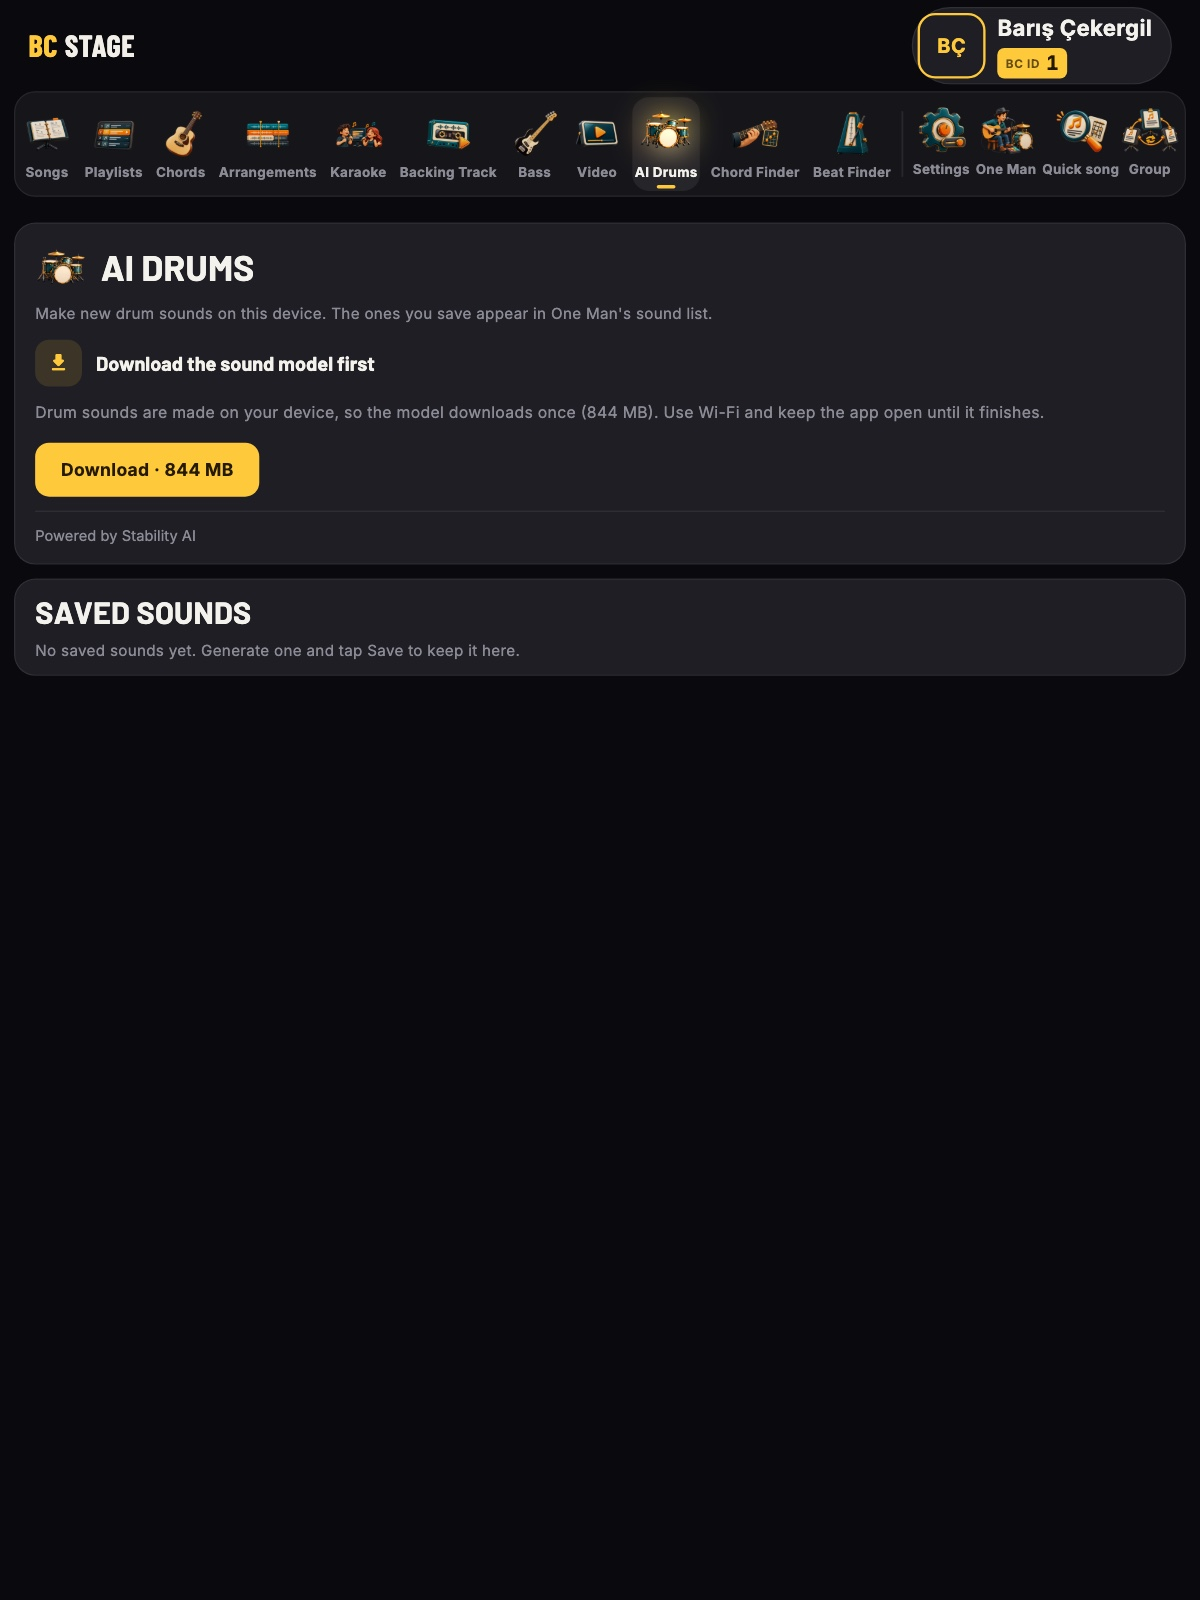
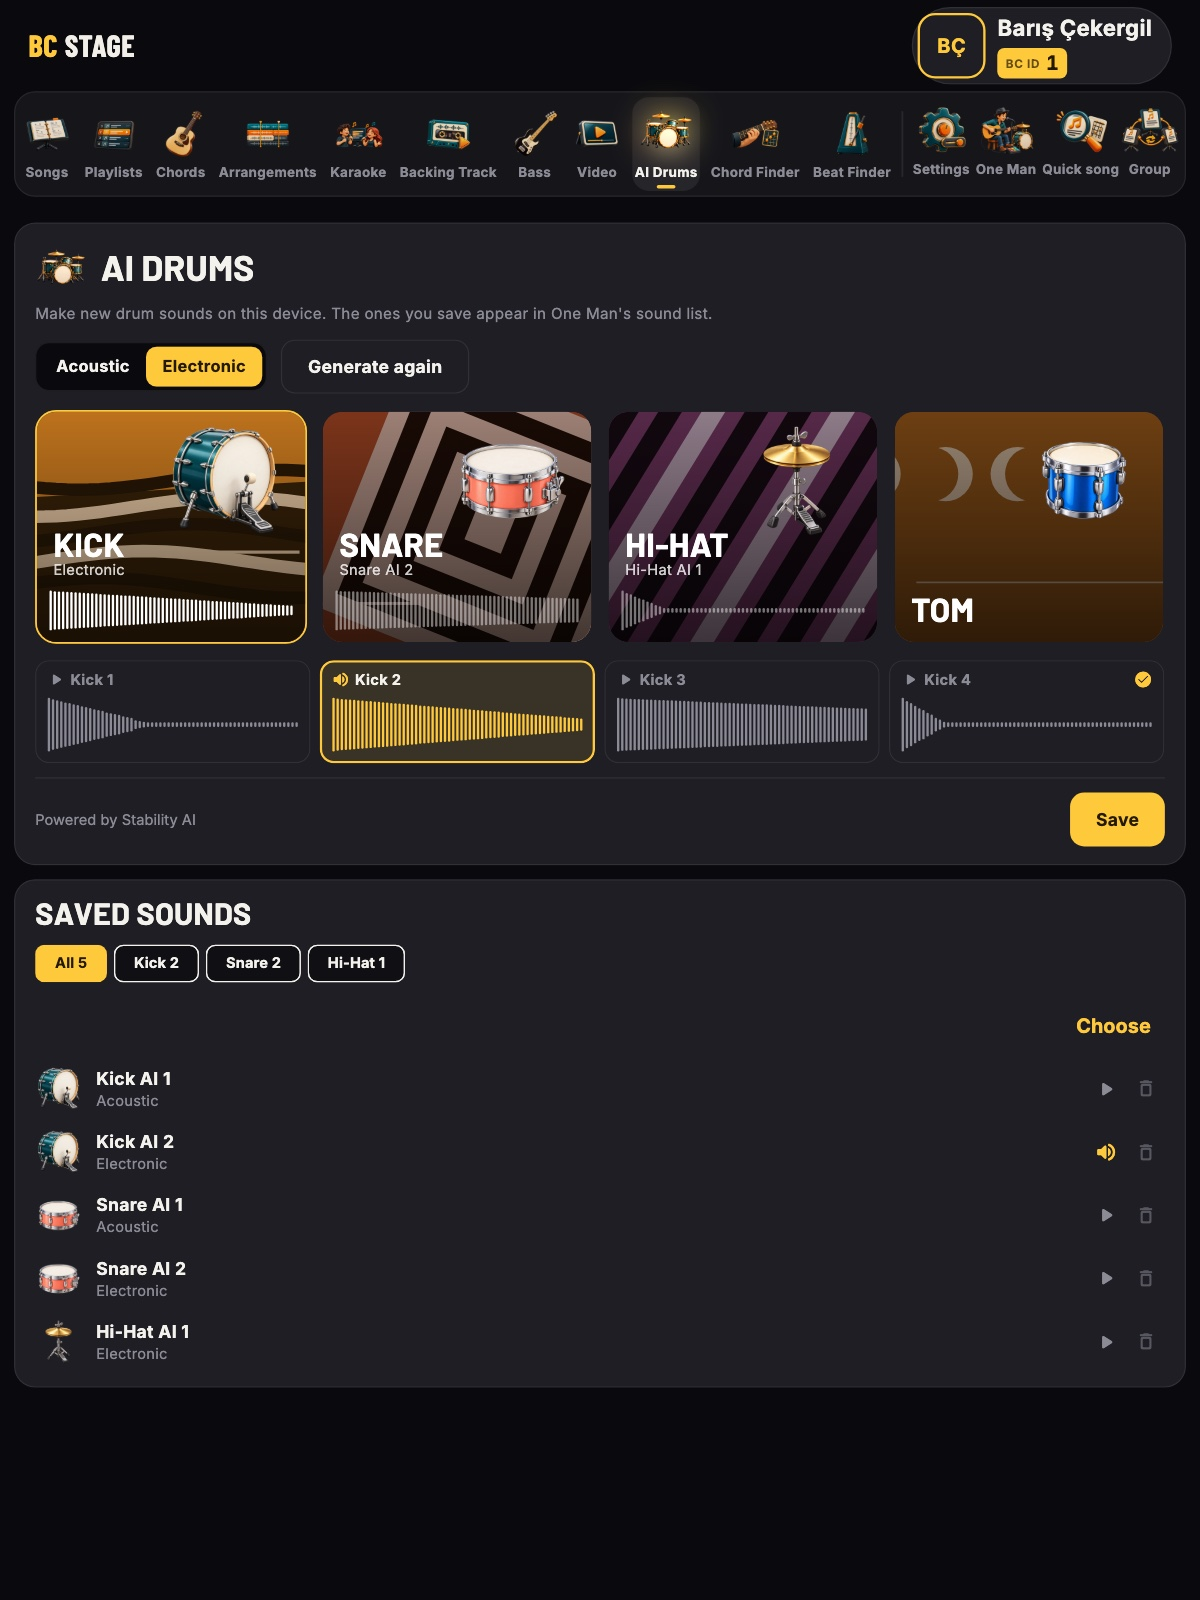
Dolu 3.0 ekranları: açık akor şeması, Akor Bulma ve Metronom Bul sonuçları, AI Davul, video kütüphanesi, Pano (Aralık konserleri); yardım rehberleri bu ekranlara göre yeniden noktalandı

diff --git a/yardim_veri.js b/yardim_veri.js
@@ -43,14 +43,14 @@ window.KILAVUZ=[
 
 {k:'semalar',g:'calisma',i:'duzenlemeler',
  tr:{a:'Akor şemaları',o:'iReal tarzı akor şeması: söz yok, yalnız bölümler, ölçüler ve akorlar.',
-  s:['Düzenlemeler ve Düzenleme Playlistleri: şemaları tek tek ya da liste hâlinde aç.','Ad, şarkıcı ya da söze göre ara.','Her satırda şarkı, sanatçı ve usul.','Düzenleme ekle: bir şarkı için ya da boş şema.'],
-  e:['Şemada bölüm haritası, ton, tempo ve usul üstte; bölüm başlığına dokun: bölüm menüsü.','Boş yuvaya dokun ve akoru yaz; ölçüye çift dokun: ölçü menüsü. Bölüm başına ayrı usul (7/8, 9/8...).','Metronomla yürü: giriş sayar, imleç ölçü ölçü ilerler; röprizleri, 1./2. sonları ve D.S./Coda\'yı çalınış sırasıyla takip eder.'],
+  s:['Bölüm haritası: bölümler ve ×2 gibi tekrarlar; dokununca o bölüme gider.','Ton, tempo ve usul.','Bölüm başlığına dokun: bölüm menüsü.','Röpriz ve 1./2. son işaretleri.','Bölüm başına ayrı usul (burada 7/8).','Segno ve Coda: D.S. al Coda çalınış sırasıyla izlenir.','Şemadaki akorlar.','Metronomla yürü: giriş sayar, imleç ölçü ölçü ilerler.'],
+  e:['Boş yuvaya dokun ve akoru yaz; ölçüye uzun bas: ölçü menüsü.','Yürürken röprizleri, 1./2. sonları ve D.S./Coda\'yı çalınış sırasıyla takip eder, sonda başa döner.','Düzenlemeler listesinden şemaları tek tek ya da Düzenleme Playlistleri olarak açarsın.'],
   t:'Ücretsiz sürümde 10 şema var.'},
  en:{a:'Chord charts',o:'An iReal-style chart: no lyrics, just sections, bars and chords.',
-  s:['Arrangements and Arrangement Playlists: open charts one by one or as a list.','Search by title, singer or lyrics.','Each row shows the song, the artist and the meter.','Add arrangement: for a song or an empty chart.'],
-  e:['Inside a chart the section map, key, tempo and meter sit on top; tap a section header for the section menu.','Tap an empty slot to type a chord; double-tap a bar for the bar menu. A separate meter per section (7/8, 9/8...).','Walk with the metronome: count-in, the cursor moves bar by bar and follows repeats, 1st/2nd endings and D.S./Coda in playing order.'],
+  s:['Section map: sections and repeats like ×2; tap one to jump there.','Key, tempo and meter.','Tap a section header for the section menu.','Repeat signs and 1st/2nd endings.','A separate meter per section (7/8 here).','Segno and Coda: D.S. al Coda is followed in playing order.','Chords used in the chart.','Walk with the metronome: count-in, the cursor moves bar by bar.'],
+  e:['Tap an empty slot to type a chord; long-press a bar for the bar menu.','While walking it follows repeats, 1st/2nd endings and D.S./Coda in playing order, then goes back to the top.','From the Arrangements list you open charts one by one or as Arrangement Playlists.'],
   t:'The free version has 10 charts.'},
- n:[[50,21.5],[10,26.8],[9,33],[30,94.5]]},
+ n:[[30,8.5],[86,9.6],[5,22.8],[25.5,54],[96,67],[24.4,88.8],[17,97],[77,2.9]]},
 {k:'karaoke',g:'calisma',i:'karaoke',
  tr:{a:'Karaoke',o:'Bir ses dosyasını şarkıya bağla; BC Stage vokali ayırır ve sözleri kelime kelime zamana oturtur.',
   s:['Söz kelime kelime dolar; akorlar kelimenin üstünde.','Sıradaki satır soluk görünür.','Çal ve ilerleme çubuğu; satıra dokunup atlarsın.','Akorlar ve Akor yaz.','Tema: kapak renkleri, altın toz, ateş böcekleri, kıvılcım ya da sade.','Yazı boyu.','Ton: yarım ses adımlarla.','Hız: yavaşlat ya da hızlandır.','Vokal: asıl sesi kıs ya da tamamen kapat.'],
@@ -70,30 +70,28 @@ window.KILAVUZ=[
   s:['Lyrics language: Automatic, Turkish or English.','Give it the song with "Choose an audio file".','Four steps: split the vocal, write the lyrics, time the words, find the chords.','Capo plans: no capo, or fewer barre chords.','Chord chart: every chord in the song.','Result: lyrics with chords and section headers.','Save to your songs, and to Karaoke if you like.'],
   e:['You can switch tabs while it works; a progress ring shows on the tab.'],
   t:'The lyric recognition and alignment models download on first use; after that no internet is needed.'},
- n:[[19,35],[17,40],[17,60],[45,25],[45,32],[55,50],[42,94]]},
+ n:[[15,46.5],[24,30.4],[12,60],[41,27.5],[46,39],[49,55],[42,94.3]]},
 
 {k:'video',g:'calisma',i:'video',
  tr:{a:'Video çalışma',o:'Ders videosunda zor yeri döngüye al, yavaşlat, ellerin öğrenene kadar tekrar çal.',
-  s:['Video.','Dalga şeridinde A ve B işaretleri: döngünün başı ve sonu.','A ve B zamanları; "Temizle" ile sıfırla.','Döngü kilidi.','Hız: 0,25× ile 1× arası; ses kalınlaşmaz.','Hız merdiveni: her turda biraz hızlanır.','Çalışmalar: döngüyü adıyla kaydet.','Çal.'],
-  e:['Videoyu galerinden seç.','Dalga şeridinde iki parmakla ×120\'ye kadar yakınlaştır.'],
+  s:['Video seç: bağlantı ya da galeriden dosya.','Videolarında ara.','Listeler: Gitar dersleri, Sahne kayıtları; + ile yeni liste.','Kayıtlı çalışma: hızı ve A–B döngüsü satırda görünür, dokununca kaldığın yerden açılır.','Satır menüsü (⋮): adlandır, listeye ekle, sil.','Video burada oynar; altında dalga şeridi.'],
+  e:['Dalga şeridinde A ve B işaretleri döngünün başı ve sonu; "Temizle" ile sıfırla, döngü kilidiyle sabitle.','Hız 0,25× ile 1× arası; ses kalınlaşmaz. Hız merdiveni her turda biraz hızlandırır.','Çalışmalar: döngüyü adıyla kaydet. Dalga şeridinde iki parmakla ×120\'ye kadar yakınlaştır.'],
   t:'iPad, Mac ve yatay telefonda çalışır. Ses perdesi korunur; ayrıca ton değiştirme yoktur.'},
  en:{a:'Video practice',o:'Loop the hard part of a lesson video, slow it down and play it until your hands know it.',
-  s:['The video.','A and B markers on the waveform: start and end of the loop.','A and B times; reset with "Clear".','Loop lock.','Speed: 0.25× to 1×, without lowering the pitch.','Speed ladder: a little faster every pass.','Practice spots: save a loop with a name.','Play.'],
-  e:['Pick a video from your gallery.','Pinch the waveform to zoom up to ×120.'],
+  s:['Choose video: a link or a file from your gallery.','Search your videos.','Lists such as Guitar lessons and Stage recordings; + makes a new one.','A saved practice spot: its speed and A–B loop show on the row; tap to pick up where you left off.','Row menu (⋮): rename, add to a list, delete.','The video plays here, with the waveform strip below it.'],
+  e:['A and B markers on the waveform are the start and end of the loop; reset with "Clear", hold it with the loop lock.','Speed from 0.25× to 1×, without lowering the pitch. The speed ladder goes a little faster every pass.','Practice spots: save a loop with a name. Pinch the waveform to zoom up to ×120.'],
   t:'Works on iPad, Mac and phones in landscape. Pitch is preserved; there is no separate key change.'},
- n:[[38,40],[30,66],[66,85],[64,80],[85,27],[87,39],[85,58],[5,86]]},
-
+ n:[[27,23.8],[17,29.3],[16,34.3],[13,57],[30.7,57],[66.5,44]]},
 {k:'metronombul',g:'ritim',i:'metronom_bul',
  tr:{a:'Metronom Bul',o:'Bir kayıt ver; BC Stage tempoyu, ölçüyü ve birinci vuruşu bulur, şarkıyla birlikte tık atar. Yalnız iPad ve Mac.',
-  s:['Şarkı; "Başka şarkı" ile değiştir.','Bulunan tempo.','Ölçü ve güven; tık vuruşu.','×2, ÷2 ve "Dokunarak düzelt": tempo katını ve "1"in yerini düzelt.','Dalga ve vuruş ızgarası; sarı çizgiler ölçü başları.','Metronomu şarkıyla çal.','Şarkının BPM\'i olarak kaydet.','Davulunu yaz: şarkının davulunu okur, 4–6 tarz adayı çıkarır.'],
-  e:['Klikli kayıtta tek tempo, canlı kayıtta tempoyu izleyen metronom.'],
+  s:['Şarkı; "Başka şarkı" ile değiştir.','Bulunan tempo.','Ölçü ve güven; ilk vuruşun zamanı.','×2, ÷2 ve "Dokunarak düzelt": tempo katını ve "1"in yerini düzelt.','Dalga ve vuruş ızgarası; sarı çizgiler ölçü başları. Sürükle: ileri-geri.','Metronomu şarkıyla çal.','Sayım ve "Son 30 sn".','İnce ayar: ölçü ve "1" nerede.','Faz itme: tıkı milisaniye milisaniye kaydır.','Şarkı ve tık seviyeleri.'],
+  e:['Klikli kayıtta tek tempo, canlı kayıtta tempoyu izleyen metronom.','Şarkının BPM\'i olarak kaydet.','Davulunu yaz: şarkının davulunu okur, 4–6 tarz adayı çıkarır.'],
   t:'Kaydedilen davul Karaoke mikserinde "Bizim davul" olarak çalar.'},
  en:{a:'Beat Finder',o:'Give it a recording; BC Stage finds the tempo, the meter and beat one, then clicks along with the song. iPad and Mac only.',
-  s:['The song; change it with "Other song".','The tempo it found.','Meter and confidence; click beat.','×2, ÷2 and "Tap to fix": correct the tempo multiple and where "1" falls.','Waveform and beat grid; yellow lines are bar starts.','Play the metronome with the song.','Save as the song\'s BPM.','Write its drums: reads the song\'s drums and offers 4–6 style candidates.'],
-  e:['Click-track recordings get one tempo; live recordings get a metronome that follows the tempo.'],
+  s:['The song; change it with "Other song".','The tempo it found.','Meter and confidence; when the first beat falls.','×2, ÷2 and "Tap to fix": correct the tempo multiple and where "1" falls.','Waveform and beat grid; yellow lines are bar starts. Drag to move back and forth.','Play the metronome with the song.','Count-in and "Last 30 s".','Fine tuning: the meter and where "1" is.','Phase nudge: move the click millisecond by millisecond.','Song and click levels.'],
+  e:['Click-track recordings get one tempo; live recordings get a metronome that follows the tempo.','Save as the song\'s BPM.','Write its drums: reads the song\'s drums and offers 4–6 style candidates.'],
   t:'Saved drums play as "Our drums" in the karaoke mixer.'},
- n:[[20,28],[10,37],[18,40],[50,41],[33,48],[30,56],[12,64],[80,51]]},
-
+ n:[[14,30.5],[7,43],[19.5,43],[64,45.5],[50,55.5],[4.6,69],[80,69],[8,81],[44,81],[73,81]]},
 {k:'oneman',g:'ritim',i:'one_man',
  tr:{a:'One Man Mode',o:'Canlı çalınan beş kanallı davul ızgarası. Sen çalarken ritim seni izler. VIP, 3 gün deneme.',
   s:['Çal / dur: ölçü başında girer.','Tempo.','A, B, C varyasyonları.','FILL ve FINALE.','Hücreye dokun; dikey sürükleyerek vuruş şiddetini ayarla.','Kanal: ses seçimi, M (sustur), S (solo), seviye.','Kitler: kit seçimi.','Perküsyon: konga, bongo, tef ya da shaker ekle.'],
@@ -105,21 +103,21 @@ window.KILAVUZ=[
 
 {k:'aidavul',g:'ritim',i:'ai_davul',
  tr:{a:'AI Davul',o:'Davul seslerini ve bütün kitleri cihazında yapay zekâyla üret. Yalnız iPad ve Mac.',
-  s:['Tek ses ya da kit.','Akustik, Elektronik ya da Fırça.','Groove: Pop, Funk, Reggae, Jazz.','Kit üret.','Ses kartı: dinle, seç.','Adaylar ve "Yeniden üret".','Oda: kuru, küçük oda, stüdyo, salon.','Kaydettiğin sesler ve kit mikseri.','Kiti adlandır ve kaydet.','Kalıp kütüphanesi: 17 tarzda 6.401 kalıp, bölüme göre.'],
-  e:['Tom seti, açık hi-hat, cross-stick ve fırça üret; konga, bongo, tef, shaker ekle.'],t:'Model ilk kullanımda iner (yaklaşık 841 MB). Kitler One Man\'de ve "Davulunu yaz"da kullanılır.'},
+  s:['Akustik ya da Elektronik.','Yeniden üret: yeni adaylar.','Ses kartları: Kick, Snare, Hi-hat, Tom; dokun, dinle.','Adaylar: dört dalga; birini seç.','Kaydet.','Kaydettiğin sesler; türe göre süz.','Dinle ya da sil. Kaydettiklerin One Man\'in ses listesinde çıkar.'],
+  e:['Tek ses ya da bütün kit üret; Fırça kiti de var. Groove (Pop, Funk, Reggae, Jazz) ve oda (kuru, küçük oda, stüdyo, salon) seç.','Kiti adlandır ve kaydet; kit mikseriyle dengele.','Kalıp kütüphanesi: 17 tarzda 6.401 kalıp, bölüme göre.','Tom seti, açık hi-hat, cross-stick ve fırça üret; konga, bongo, tef, shaker ekle.'],t:'Model ilk kullanımda iner (yaklaşık 841 MB). Kitler One Man\'de ve "Davulunu yaz"da kullanılır.'},
  en:{a:'AI Drums',o:'Make drum sounds and whole kits with AI on your device. iPad and Mac only.',
-  s:['Single sound or kit.','Acoustic, Electronic or Brush.','Groove: Pop, Funk, Reggae, Jazz.','Make kit.','Sound card: listen and pick.','Candidates and "Regenerate".','Room: dry, small room, studio, hall.','Your saved sounds and the kit mixer.','Name the kit and save it.','Pattern library: 6,401 patterns in 17 styles, by section.'],
-  e:['Make a tom set, open hi-hat, cross-stick and brushes; add conga, bongo, tambourine, shaker.'],t:'The model downloads on first use (about 841 MB). Kits work in One Man and in Write its drums.'},
- n:[[48,21],[10,26],[28,26],[40,26],[11,40],[33,77],[15,88],[85,40],[93,95],[10,83]]},
+  s:['Acoustic or Electronic.','Regenerate: new candidates.','Sound cards: Kick, Snare, Hi-hat, Tom; tap to listen.','Candidates: four waveforms; pick one.','Save.','Your saved sounds; filter by type.','Listen or delete. Saved sounds show up in One Man\'s sound list.'],
+  e:['Make a single sound or a whole kit; there is a Brush kit too. Pick a groove (Pop, Funk, Reggae, Jazz) and a room (dry, small room, studio, hall).','Name the kit and save it; balance it with the kit mixer.','Pattern library: 6,401 patterns in 17 styles, by section.','Make a tom set, open hi-hat, cross-stick and brushes; add conga, bongo, tambourine, shaker.'],t:'The model downloads on first use (about 841 MB). Kits work in One Man and in Write its drums.'},
+ n:[[9,32],[22,32],[37,45],[29,60.5],[69,70],[79,27],[94,47]]},
 
 {k:'pano',g:'grup',i:'pano',
  tr:{a:'BC Pano',o:'Sahnedeki müzisyenin ana sayfası. BC hesabı ve internet gerekir.',
-  s:['Profilin ve üye numaran (ID).','Herkese açık profilin nasıl göründüğüne bak.','Kısayollar: One Man, AI Davul, Karaoke ve diğerleri.','Sıradaki konser: yol tarifi, bilet, hatırlatma.','Konserlere açığım: aramalarda görün, teklif al.','Hızlı işlemler: konser ekle, ekipman ekle, müzisyen bul, profili düzenle.','Ekipmanım.','Sol menü: Ekipmanım, Repertuvar, Konserler, Gruplarım, Sahne videoları, Müzisyen bul, haberler, sanatçılar.'],
+  s:['Profilin ve üye numaran (ID).','Herkese açık profilin nasıl göründüğüne bak.','Kısayollar: One Man, AI Davul, Karaoke ve diğerleri.','Sıradaki konser: yol tarifi, bilet, hatırlatma.','Konserlere açığım: aramalarda görün, teklif al.','Hızlı işlemler: konser ekle, ekipman ekle, müzisyen bul, düzenle, hata bildir, fikir öner.','Ekipmanım.','Sol menü: Ekipmanım, Repertuvar, Konserler, Gruplarım, Sahne videoları, Müzisyen bul, haberler, sanatçılar.','Neler oluyor: davetler, takipler, oylar ve yakındaki konserler.'],
   e:['BC ID\'ni seç: 3–20 karakter; sonra değiştirebilirsin.'],t:'Hesabını uygulamadan silebilirsin; profilin ve fotoğrafların silinir.'},
  en:{a:'BC Board',o:'Home base for the musician on stage. Needs a BC account and internet.',
-  s:['Your profile and member number (ID).','See how your public profile looks.','Shortcuts: One Man, AI Drums, Karaoke and more.','Next gig: directions, tickets, reminder.','Open to gigs: show up in searches, get offers.','Quick actions: add a gig, add gear, find musicians, edit profile.','My gear.','Left menu: My gear, Repertoire, Gigs, My bands, Stage videos, Find musicians, news, artists.'],
+  s:['Your profile and member number (ID).','See how your public profile looks.','Shortcuts: One Man, AI Drums, Karaoke and more.','Next gig: directions, tickets, reminder.','Open to gigs: show up in searches, get offers.','Quick actions: add a gig, add gear, find musicians, edit, report a bug, suggest an idea.','My gear.','Left menu: My gear, Repertoire, Gigs, My bands, Stage videos, Find musicians, news, artists.','What\'s happening: invites, follows, votes and gigs nearby.'],
   e:['Choose your BC ID: 3–20 characters; you can change it later.'],t:'You can delete your account in the app; your profile and photos go with it.'},
- n:[[40,7],[82,9],[50,22],[30,44],[25,63],[58,66],[50,85],[8,30]]},
+ n:[[50.5,4.1],[86,7.7],[50,19],[28,29.5],[87,26.5],[58,52],[20,89],[8,30],[84,52]]},
 
 {k:'grup',g:'grup',
  tr:{a:'Grup senkronu',o:'Lider şarkıyı açar, aynı Wi-Fi\'daki bütün cihazlar izler. İnternet gerekmez. VIP, 3 gün deneme.',
